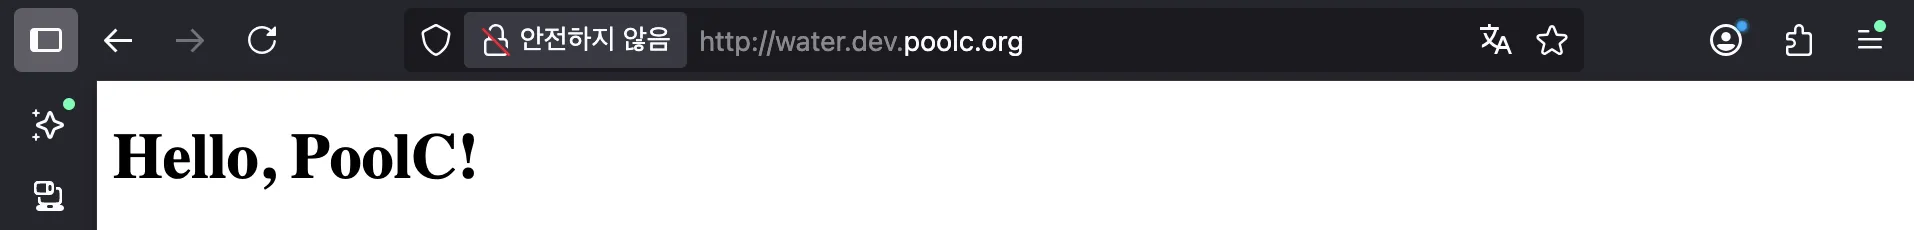
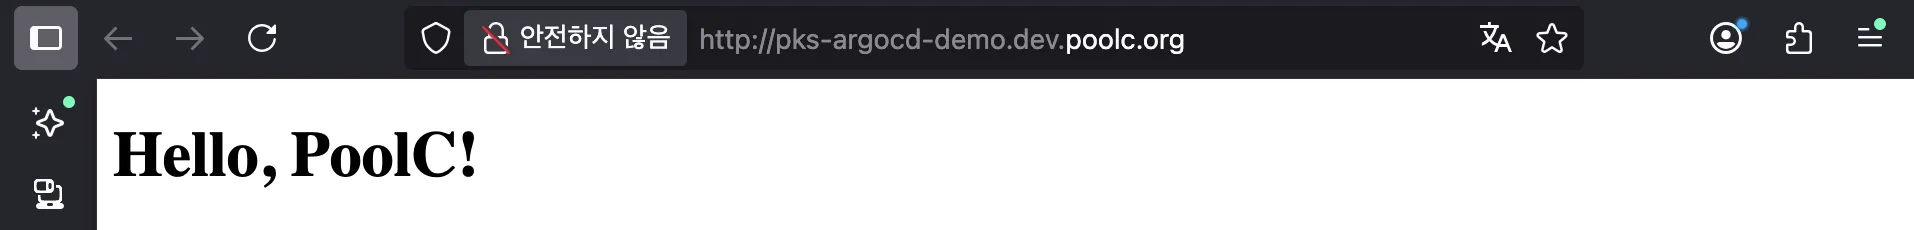
docs(user): 배포되는 웹 서버의 서브도메인을 'water'에서 'pks-argocd-demo'로 변경
참조:
- https://github.com/PoolC/pks-argocd-demo/commit/aef068152d2f00dbdca353b8bae9f6a28c92ab89

diff --git a/docs/user-guides/ArgoCD.md b/docs/user-guides/ArgoCD.md
@@ -142,7 +142,7 @@ git commit -m "build: add Dockerfile"
 
 1. 하단의 스크립트 내용을 복사한 후, 사용하는 텍스트 에디터에 붙여넣어주세요.
 2. `SUBDOMAIN_NAME`을 원하는 값으로 수정해주세요.
-   - 예시: `water`
+   - 예시: pks-argocd-demo
    - 참조: [서브도메인이 무엇인가요?](./PKS-101.md#서브도메인이-무엇인가요)
 3. 수정된 스크립트를 로컬 터미널에 그대로 복사 & 붙여넣기해 실행해주세요.
 
@@ -521,7 +521,7 @@ TODO
 
    <p align="center">
      <img alt="The Python web server" src="../../assets/argocd-python-webserver.webp">
-     <span>서브도메인으로 "water"를 사용한 예시</span>
+     <span>서브도메인으로 "pks-argocd-demo"를 사용한 예시</span>
    </p>
 
 #### CLI를 사용해 레포지토리 등록하기
@@ -534,9 +534,9 @@ TODO
    1. 하단의 스크립트 내용을 복사한 후, 사용하는 텍스트 에디터에 붙여넣어주세요.
    2. `USERNAME`과 `PASSWORD`를 풀씨 홈페이지에서 확인한 값으로 수정해주세요.
    3. `APPLICATION_NAME`을 원하는 값으로 수정해주세요.
-      - 예시: `water`
+      - 예시: pks-argocd-demo
    4. `NAMESPACE_NAME`을 원하는 값으로 수정해주세요.
-      - 예시: `water`
+      - 예시: pks-argocd-demo
 
 ```bash
 USERNAME="풀씨 홈페이지에서 확인한 Username"
@@ -607,7 +607,7 @@ EOF
 
    <p align="center">
      <img alt="The Python web server" src="../../assets/argocd-python-webserver-updated.webp">
-     <span>서브도메인으로 "water"를 사용한 예시</span>
+     <span>서브도메인으로 "pks-argocd-demo"를 사용한 예시</span>
    </p>
 
 ### Step 9. 실습 완료 후 모든 자원 삭제하기
